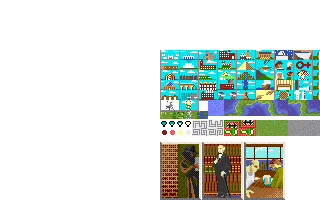
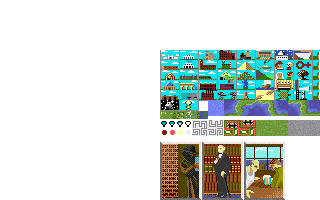
feat: sell buildings

diff --git a/src/ui/cityview/ui-cityview-buildings.ts b/src/ui/cityview/ui-cityview-buildings.ts
@@ -1,9 +1,13 @@
 import { fonts } from '../../fonts';
 import { Rect } from '../../helpers';
 import { buildings } from '../../logic/buildings';
+import { sellPrice } from '../../logic/city';
 import { palette } from '../../palette';
-import { renderBlueBox, renderSprite, renderText, setFontColor } from '../../renderer';
-import { UiWindow } from '../ui-controller';
+import { renderBlueBox, renderSprite, renderText, renderYield, setFontColor, YieldIcon } from '../../renderer';
+import { newSelect } from '../components/ui-select';
+import { pushUiAction } from '../ui-action-queue';
+import { pushUiScreen, UiWindow } from '../ui-controller';
+import { getUiState } from '../ui-state';
 
 const area: Rect = {
   x: 211,
@@ -21,11 +25,62 @@ export const cityBuildingsWindow: UiWindow = {
       return;
     }
     renderBlueBox(area.x, area.y, area.width, area.height);
+
+    if (!selectedCity.buildings.length) {
+      return;
+    }
+
     setFontColor(fonts.mainSmall, palette.white);
+
     for (let i = 0; i < selectedCity.buildings.length; i++) {
       const building = buildings[selectedCity.buildings[i]];
-      renderSprite(building.sprite, area.x + 2 + 20 * ((i + 1) % 2), i * fonts.mainSmall.height);
+      if (i === 0) {
+        // First building icon is special case because we need to cut off 2 pixels
+        renderSprite(
+          { ...building.sprite, y: building.sprite.y + 2, height: building.sprite.height - 2 },
+          area.x + 2 + 20,
+          2
+        );
+      } else {
+        renderSprite(building.sprite, area.x + 2 + 20 * ((i + 1) % 2), i * fonts.mainSmall.height);
+      }
       renderText(fonts.mainSmall, building.name, area.x + 42, 4 + i * fonts.mainSmall.height);
+      if (!selectedCity.hasSold) {
+        renderYield(YieldIcon.Coin, 1, area.x + area.width - 9, 2 + i * fonts.mainSmall.height, 0, true);
+      }
     }
+  },
+  onClick: (x, y) => {
+    const { selectedCity, localPlayer, gameState } = getUiState();
+    if (!selectedCity || selectedCity.hasSold || x < area.width - 9 || x > area.width - 1) {
+      return;
+    }
+
+    const buildingIndex = Math.floor((y - 2) / fonts.mainSmall.height);
+    if (buildingIndex < 0 || buildingIndex > selectedCity.buildings.length - 1) {
+      return;
+    }
+
+    const buildingId = selectedCity.buildings[buildingIndex];
+    const building = buildings[buildingId];
+
+    const city = gameState.players[localPlayer].cities.indexOf(selectedCity);
+    const select = newSelect({
+      x: 80,
+      y: 80,
+      title: ['Do you want to sell', `your ${building.name} for ${sellPrice(building)}$?`],
+      options: ['No.', 'Yes.'],
+      onSelect: (value) => {
+        if (value === 'Yes.') {
+          pushUiAction({
+            type: 'CitySell',
+            player: localPlayer,
+            city,
+            building: buildingId,
+          });
+        }
+      },
+    });
+    pushUiScreen(select);
   },
 };

diff --git a/src/ui/cityview/ui-cityview-production.ts b/src/ui/cityview/ui-cityview-production.ts
@@ -48,12 +48,13 @@ const buyButton = {
   height: 9,
 };
 
+let changeButtonColor = palette.blue;
+
 const change = () => {
   const { gameState, selectedCity, localPlayer } = getUiState();
   if (!selectedCity) {
     return;
   }
-
   const shieldYield = totalCityYield(gameState, gameState.players[selectedCity.owner].map, selectedCity).shields;
 
   // Add units
@@ -162,7 +163,7 @@ export const cityProductionWindow: UiWindow = {
       area.x + changeButton.x,
       area.y + changeButton.y,
       changeButton.width,
-      palette.blue,
+      changeButtonColor,
       palette.blueDark
     );
     renderSmallButton(
@@ -212,3 +213,21 @@ export const cityProductionWindow: UiWindow = {
 };
 
 addGameEventListener('GameStateUpdated', () => (cityProductionWindow.isDirty = true));
+addGameEventListener('BlinkingStateUpdated', () => {
+  const { selectedCity, isBlinking } = getUiState();
+  if (!selectedCity) {
+    return;
+  }
+
+  // Blink yellow button if producing building that city already has
+  if (
+    selectedCity.producing.type === CityProductionType.Building &&
+    selectedCity.buildings.includes(selectedCity.producing.id)
+  ) {
+    changeButtonColor = isBlinking ? palette.yellow : palette.blue;
+    cityProductionWindow.isDirty = true;
+  } else if (changeButtonColor !== palette.blue) {
+    changeButtonColor = palette.blue;
+    cityProductionWindow.isDirty = true;
+  }
+});

diff --git a/src/logic/game-rules/civ-game-cities.ts b/src/logic/game-rules/civ-game-cities.ts
@@ -1,5 +1,6 @@
 import { CityAction } from '../action';
 import { ActionResult } from '../action-result';
+import { buildings } from '../buildings';
 import {
   bestWorkableTiles,
   buyCost,
@@ -8,6 +9,7 @@ import {
   getBlockedWorkableTiles,
   getProductionCost,
   optimizeWorkedTiles,
+  sellPrice,
   Specialists,
 } from '../city';
 import { GameState } from '../game-state';
@@ -98,7 +100,22 @@ export const executeCityAction = (state: GameState, action: CityAction): ActionR
       }
       player.gold -= price;
       city.shields = getProductionCost(city.producing);
+      city.hasBought = true;
       break;
+    }
+
+    case 'CitySell': {
+      if (city.hasSold) {
+        return {
+          type: 'ActionFailed',
+          reason: 'CityAllreadySold',
+        };
+      }
+
+      const building = buildings[action.building];
+      player.gold += sellPrice(building);
+      city.hasSold = true;
+      city.buildings = city.buildings.filter((b) => b !== action.building);
     }
   }
 };

diff --git a/src/logic/action.ts b/src/logic/action.ts
@@ -1,3 +1,4 @@
+import { BuildingId } from './buildings';
 import { CityProduction } from './city';
 
 export type ActionWithPlayer = {
@@ -40,11 +41,20 @@ export type CityTileAction = {
   tile: number;
 } & ActionWithCity;
 
-export type CityProductionAction = {
+export type CityChangeProductionAction = {
   type: 'CityChangeProduction';
   production: CityProduction;
 } & ActionWithCity;
 
-export type CityAction = ({ type: 'CityBuy' } & ActionWithCity) | CityTileAction | CityProductionAction;
+export type CitySellAction = {
+  type: 'CitySell';
+  building: BuildingId;
+} & ActionWithCity;
+
+export type CityAction =
+  | ({ type: 'CityBuy' } & ActionWithCity)
+  | CityTileAction
+  | CityChangeProductionAction
+  | CitySellAction;
 
 export type Action = PlayerAction | UnitAction | UnitActionMove | CityAction;

diff --git a/src/logic/buildings.ts b/src/logic/buildings.ts
@@ -4,6 +4,7 @@ export enum BuildingId {
   Palace = 'palace',
   Barracks = 'barracks',
   Granary = 'granary',
+  Temple = 'temple',
   Marketplace = 'marketplace',
 }
 
@@ -51,6 +52,18 @@ export const buildings: Record<BuildingId, Building> = {
       height: 10,
     },
   },
+  [BuildingId.Temple]: {
+    name: 'Temple',
+    cost: 40,
+    maintenance: 1,
+    sprite: {
+      asset: 'sp299.pic.png',
+      x: 20 * 8 + 1,
+      y: 8 * 10,
+      width: 18,
+      height: 10,
+    },
+  },
   [BuildingId.Marketplace]: {
     name: 'Marketplace',
     cost: 80,
@@ -58,7 +71,7 @@ export const buildings: Record<BuildingId, Building> = {
     sprite: {
       asset: 'sp299.pic.png',
       x: 20 * 8 + 1,
-      y: 8 * 10,
+      y: 9 * 10,
       width: 18,
       height: 10,
     },

diff --git a/src/renderer.ts b/src/renderer.ts
@@ -225,8 +225,11 @@ export const generateSpriteSheets = (
   altSp257Context.canvas.width = imageData.width;
   altSp257Context.canvas.height = imageData.height;
 
-  // replace white with black for "negative" icons
-  replaceColor(imageData, 8 * 16, 2 * 16, 32, 16, palette.white, palette.black);
+  // replace white with black for "negative" yield icons
+  replaceColor(imageData, 8 * 16, 2 * 16, 3 * 8, 8, palette.white, palette.black);
+
+  // replace yellow with red for sell button
+  replaceColor(imageData, 9 * 16 + 8, 2 * 16, 8, 8, palette.yellow, palette.red);
 
   // replace gray background with cyan for "selection" background
   replaceColor(imageData, 18 * 16, 11 * 16, 32, 16, palette.grayLight, palette.cyanDark);

diff --git a/src/logic/city.ts b/src/logic/city.ts
@@ -1,4 +1,4 @@
-import { BuildingId, buildings } from './buildings';
+import { Building, BuildingId, buildings } from './buildings';
 import { convertTradeToYield } from './formulas';
 import { GameState } from './game-state';
 import { calculateTileYield, GameMap, getTileAt, TerrainYield, wrapXAxis } from './map';
@@ -303,4 +303,8 @@ export const buyCost = (production: CityProduction, shields: number) => {
     /*case CityProductionType.Wonder:
       return Math.max(0, (cost - shields) * 4);*/
   }
+};
+
+export const sellPrice = (building: Building) => {
+  return building.cost;
 };

diff --git a/src/ui/ui-state.ts b/src/ui/ui-state.ts
@@ -3,9 +3,9 @@ import { City } from '../logic/city';
 
 export type UiState = {
   gameState: GameState;
+  selectedCity: City | undefined;
   localPlayer: number;
   isBlinking: boolean;
-  selectedCity: City | undefined;
 };
 
 let uiState: UiState = {
@@ -17,10 +17,9 @@ let uiState: UiState = {
 
 export const initUi = (gameState: GameState, localPlayer: number) => {
   uiState = {
+    ...uiState,
     gameState,
-    selectedCity: undefined,
     localPlayer,
-    isBlinking: false,
   };
 };
 

diff --git a/src/logic/action-result.ts b/src/logic/action-result.ts
@@ -24,7 +24,7 @@ export type UnitCityBuiltResult = {
 
 export type ActionFailedResult = {
   type: 'ActionFailed';
-  reason: 'MissingWaterSupply' | 'UnitNotBuilder' | 'NotEnoughGold';
+  reason: 'MissingWaterSupply' | 'UnitNotBuilder' | 'NotEnoughGold' | 'CityAllreadySold';
 };
 
 export type ActionResult = UnitMoveResult | UnitCombatResult | ActionFailedResult | UnitCityBuiltResult | void;

diff --git a/src/logic/game-rules/civ-game.ts b/src/logic/game-rules/civ-game.ts
@@ -135,6 +135,8 @@ const startTurn = (state: GameState) => {
 
     player.gold += cityYield.gold;
     player.beakers += cityYield.beakers;
+    city.hasBought = false;
+    city.hasSold = false;
   }
 
   selectNextUnit(state);
